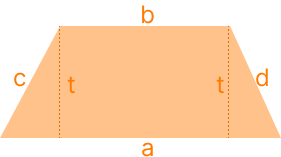
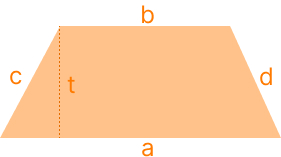
added segitiga page functionality

Changed region(s): [[0.911, 0.4331, 0.968, 0.5605], [0.0285, 0.4331, 0.0854, 0.5605], [0.7687, 0.4841, 0.7972, 0.6115]]

diff --git a/lib/page/segitiga_page.dart b/lib/page/segitiga_page.dart
@@ -1,3 +1,5 @@
+import 'dart:math';
+
 import 'package:flutter/material.dart';
 import 'package:hitung_2d/common/constants.dart';
 import 'package:hitung_2d/widget/geometry_props.dart';
@@ -16,27 +18,149 @@ class SegitigaPage extends StatefulWidget {
 class _SegitigaPageState extends State<SegitigaPage> {
   final TextEditingController alasController = TextEditingController();
   final TextEditingController tinggiController = TextEditingController();
-  final TextEditingController sController = TextEditingController();
+  final TextEditingController sisiController = TextEditingController();
   final TextEditingController luasController = TextEditingController();
   final TextEditingController kelilingController = TextEditingController();
+  bool counted = false;
 
   void hitung() {
-    setState(() {});
+    setState(() {
+      // hitung sisi, Luas, keliling if alas & tinggi available
+      if (alasController.text != '' &&
+          tinggiController.text != '' &&
+          sisiController.text == '' &&
+          luasController.text == '' &&
+          kelilingController.text == '') {
+        int alas = int.parse(alasController.text);
+        int tinggi = int.parse(tinggiController.text);
+        luasController.text = ((alas * tinggi) / 2).toString();
+        num sisi = sqrt(pow((alas / 2), 2) + pow(tinggi, 2));
+        sisiController.text = sisi.toString();
+        kelilingController.text = (alas + sisi + sisi).toString();
+        counted = true;
+
+        // hitung tinggi, Keliling, luas if a,b,c available
+      } else if (alasController.text != '' &&
+          sisiController.text != '' &&
+          tinggiController.text == '' &&
+          luasController.text == '') {
+        int alas = int.parse(alasController.text);
+        int sisi = int.parse(sisiController.text);
+        num tinggi = sqrt(pow(sisi, 2) - pow((alas / 2), 2));
+        tinggiController.text = tinggi.toString();
+        kelilingController.text = (alas + sisi + sisi).toString();
+        luasController.text = ((alas * tinggi) / 2).toString();
+        counted = true;
+
+        // hitung alas, luas, keliling if tinggi & sisi available
+      } else if (tinggiController.text != '' &&
+          sisiController.text != '' &&
+          alasController.text == '' &&
+          luasController.text == '' &&
+          kelilingController.text == '') {
+        int tinggi = int.parse(tinggiController.text);
+        int sisi = int.parse(sisiController.text);
+        num alas = sqrt(pow(sisi, 2) - pow(tinggi, 2));
+        alasController.text = alas.toString();
+        luasController.text = ((alas * tinggi) / 2).toString();
+        kelilingController.text = (alas + sisi + sisi).toString();
+        counted = true;
+
+        // hitung alas, keliling, sisi if luas, tinggi available
+      } else if (luasController.text != '' &&
+          tinggiController.text != '' &&
+          alasController.text == '' &&
+          kelilingController.text == '' &&
+          sisiController.text == '') {
+        int luas = int.parse(luasController.text);
+        int tinggi = int.parse(tinggiController.text);
+        num alas = ((luas * 2) / tinggi);
+        num sisi = sqrt(pow((alas / 2), 2) + pow(tinggi, 2));
+        alasController.text = alas.toString();
+        sisiController.text = sisi.toString();
+        kelilingController.text = (alas + sisi + sisi).toString();
+        counted = true;
+
+        // hitung tinggi, keliling, sisi if luas, alas available
+      } else if (luasController.text != '' &&
+          alasController.text != '' &&
+          tinggiController.text == '' &&
+          kelilingController.text == '' &&
+          sisiController.text == '') {
+        int luas = int.parse(luasController.text);
+        int alas = int.parse(alasController.text);
+        num tinggi = ((luas * 2) / alas);
+        num sisi = sqrt(pow((alas / 2), 2) + pow(tinggi, 2));
+        tinggiController.text = tinggi.toString();
+        sisiController.text = sisi.toString();
+        kelilingController.text = (alas + sisi + sisi).toString();
+        counted = true;
+        // hitung sisi, luas, tinggi if keliling, alas available
+      } else if (kelilingController.text != '' &&
+          alasController.text != '' &&
+          sisiController.text == '' &&
+          luasController.text == '' &&
+          tinggiController.text == '') {
+        int keliling = int.parse(kelilingController.text);
+        int alas = int.parse(alasController.text);
+        num sisi = (keliling - alas) / 2;
+        num tinggi = sqrt(pow(sisi, 2) - pow((alas / 2), 2));
+        sisiController.text = sisi.toString();
+        tinggiController.text = tinggi.toString();
+        luasController.text = ((alas * tinggi) / 2).toString();
+        counted = true;
+        // hitung alas, luas, tinggi if keliling, sisi available
+      } else if (kelilingController.text != '' &&
+          sisiController.text != '' &&
+          alasController.text == '' &&
+          luasController.text == '' &&
+          tinggiController.text == '') {
+        int keliling = int.parse(kelilingController.text);
+        int sisi = int.parse(sisiController.text);
+        num alas = keliling - (sisi * 2);
+        num tinggi = sqrt(pow(sisi, 2) - pow((alas / 2), 2));
+        alasController.text = alas.toString();
+        tinggiController.text = tinggi.toString();
+        luasController.text = ((alas * tinggi) / 2).toString();
+        counted = true;
+      } else if (counted == false) {
+        showDialog(
+          context: context,
+          builder: (context) {
+            return AlertDialog(
+              title: const Text('Salah input'),
+              content: const Text('Tidak bisa menghitung :('),
+              actions: <Widget>[
+                TextButton(
+                  onPressed: () {
+                    Navigator.of(context).pop();
+                  },
+                  child: const Text('Ok'),
+                )
+              ],
+            );
+          },
+        );
+      }
+    });
   }
 
   void reset() {
     setState(() {
+      alasController.text = '';
       tinggiController.text = '';
-      sController.text = '';
+      sisiController.text = '';
       luasController.text = '';
       kelilingController.text = '';
+      counted = false;
     });
   }
 
   @override
   void dispose() {
     super.dispose();
-    sController.dispose();
+    alasController.dispose();
+    sisiController.dispose();
     tinggiController.dispose();
     luasController.dispose();
     kelilingController.dispose();
@@ -86,7 +210,7 @@ class _SegitigaPageState extends State<SegitigaPage> {
                     children: <Widget>[
                       InputField(controller: alasController),
                       InputField(controller: tinggiController),
-                      InputField(controller: sController),
+                      InputField(controller: sisiController),
                       InputField(controller: luasController),
                       InputField(controller: kelilingController),
                     ],
